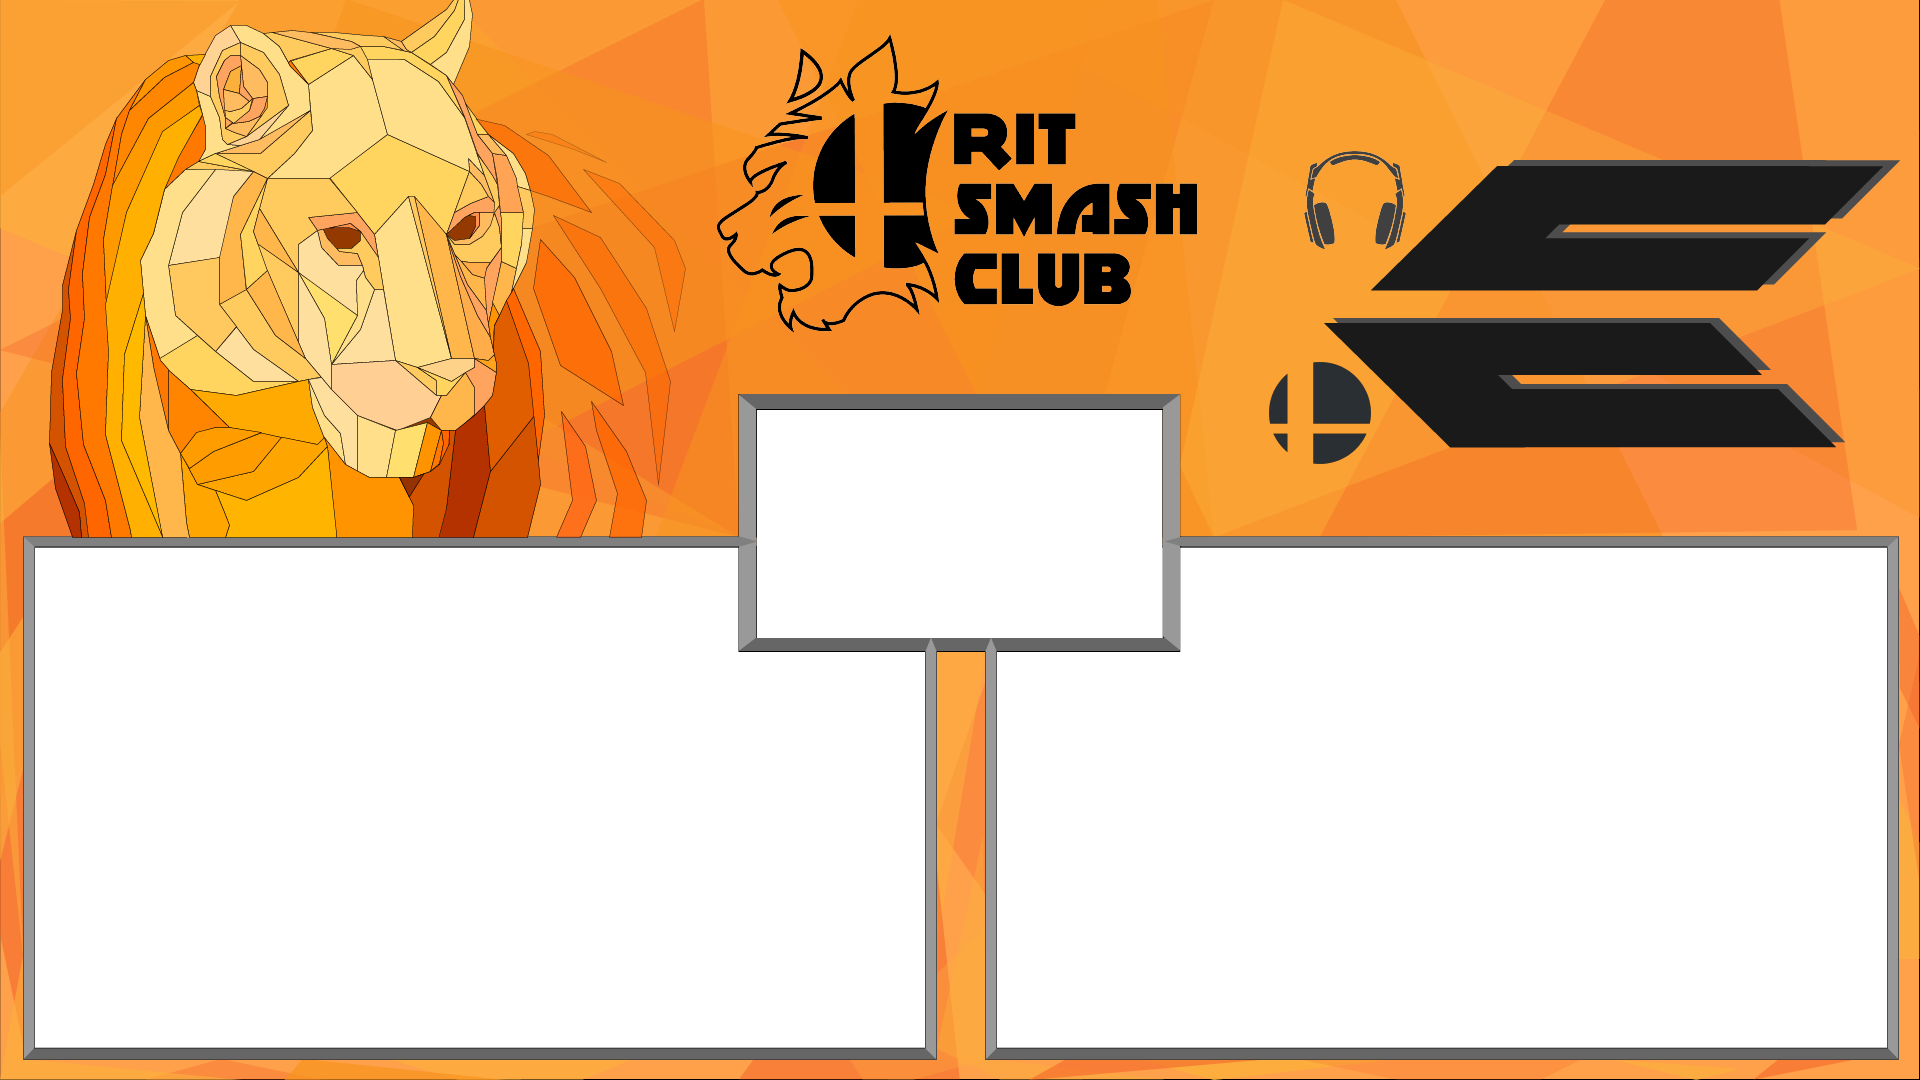
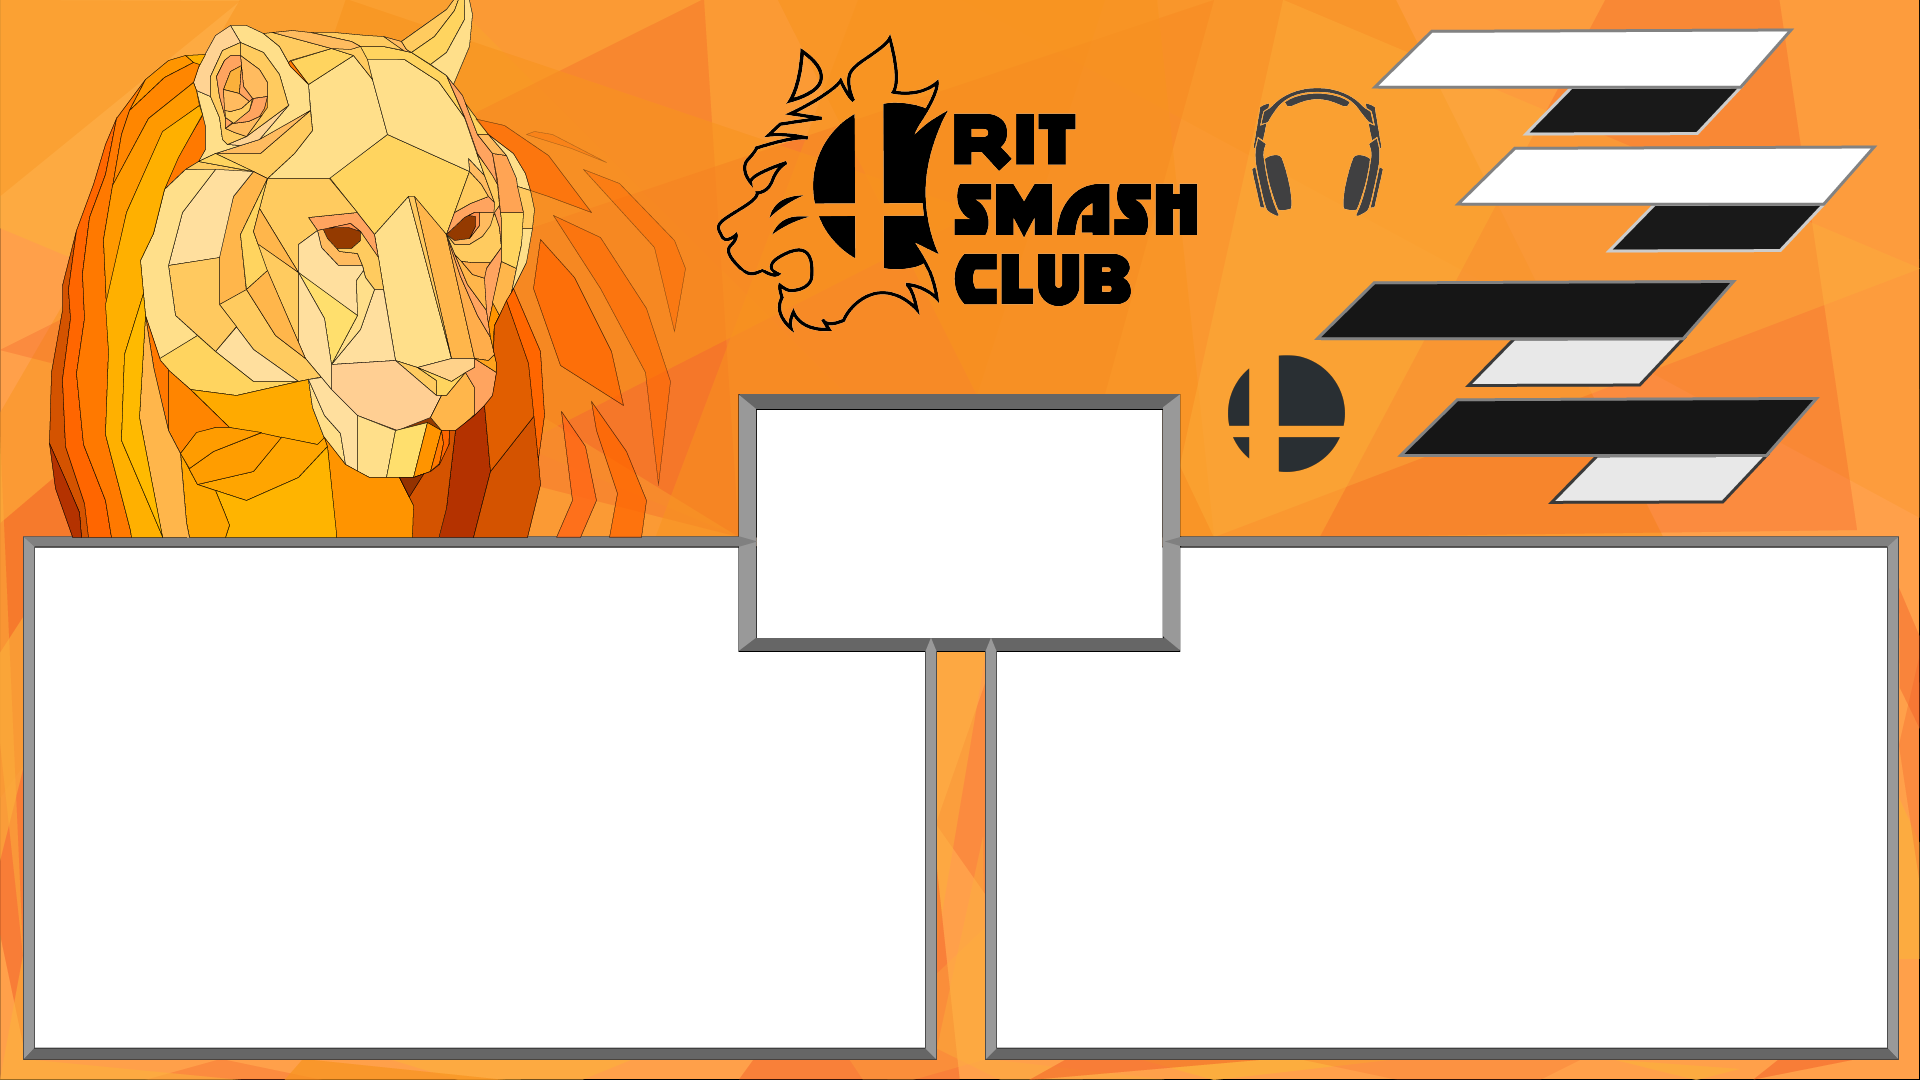
Implemented pronouns

Changed region(s): [[0.625, 0.0, 1.0, 0.4889]]

diff --git a/graphics/css/break.css b/graphics/css/break.css
@@ -28,46 +28,77 @@ body{
 }
 .player1-tag{
 	position: absolute;
-	left: 1375px;
-	top: 330px;
+	left: 1360px;
+	top: 292px;
 	width: 285px;
 }
 .player1-score{
 	position: absolute;
-	left: 1660px;
-	top: 330px;
+	left: 1640px;
+	top: 294px;
 	width: 50px;
 }
-
+.player1-pronouns{
+	position: absolute;
+	color:black;
+	font-size:24px;
+	left: 1505px;
+	top: 345px;
+	width: 140px;
+}
 .player2-tag{
 	position: absolute;
 	left: 1450px;
-	top: 400px;
+	top: 410px;
 	width: 285px;
 }
 .player2-score{
 	position: absolute;
-	left: 1735px;
-	top: 400px;
+	left: 1725px;
+	top: 412px;
 	width: 50px;
+}
+.player2-pronouns{
+	position: absolute;
+	color:black;
+	font-size:24px;
+	left: 1590px;
+	top: 463px;
+	width: 140px;
 }
 .commentators{
 	position: absolute;
 	text-align: center;
-	color: white;
+	color: black;
 	font-size: 36px;
 	height: 35px;
 	line-height: 35px;
 }
 .commentator-1{
 	position: absolute;
+	left: 1420px;
+	top: 42px;
 	width: 320px;
-	top: 175px;
-	left: 1500px;
+}
+.commentator1-pronouns{
+	position: absolute;
+	color:white;
+	font-size:24px;
+	left: 1565px;
+	top: 93px;
+	width: 140px;
 }
 .commentator-2{
 	position: absolute;
+	left: 1500px;
+	top: 160px;
 	width: 320px;
-	top: 245px;
-	left: 1425px;
+}
+.commentator2-pronouns{
+	position: absolute;
+	color:white;
+	font-size:24px;
+	left: 1645px;
+	top: 211px;
+	width: 140px;
 }

diff --git a/graphics/js/set-info.js b/graphics/js/set-info.js
@@ -31,11 +31,15 @@ $(() => {
 		const bundle = 'nodecg-smashcontrol';
 		var bracketlocation = $('.bracket-location');
 		var player1name = $('.player1-tag');
+		var player1pronouns = $('.player1-pronouns');
 		var p1score = $('.player1-score');
 		var player2name = $('.player2-tag');
+		var player2pronouns = $('.player2-pronouns');
 		var p2score = $('.player2-score');
 		var commentary1 = $('.commentator-1');
+		var commentary1pronouns = $('.commentator1-pronouns');
 		var commentary2 = $('.commentator-2');
+		var commentary2pronouns = $('.commentator2-pronouns');
 
 
 		var player1score = nodecg.Replicant("player1Score", bundle);
@@ -56,9 +60,13 @@ $(() => {
 		function updateFields(setData){
 			bracketlocation.text(setData.bracketlocation);
 			player1name.text(setData.player1tag);
+			player1pronouns.text(setData.player1pronouns);
 			player2name.text(setData.player2tag);
+			player2pronouns.text(setData.player2pronouns);
 			commentary1.text(setData.commentator1);
+			commentary1pronouns.text(setData.commentator1pronouns);
 			commentary2.text(setData.commentator2);
+			commentary2pronouns.text(setData.commentator2pronouns);
 			NodeCG.waitForReplicants(player1score, player2score).then(() => {
 				p1score.text(player1score.value);
 				p2score.text(player2score.value);

diff --git a/graphics/css/layout.css b/graphics/css/layout.css
@@ -19,7 +19,7 @@ body{
 }
 .top-bar{
 	position: absolute;
-	top: 2px;
+	top: 5px;
 	height: 35px;
 	line-height: 40px;
 	width: 365px;
@@ -36,15 +36,23 @@ body{
 }
 .player1-tag{
 	position: absolute;
-	bottom: 38px;
+	bottom: 36px;
 	height: 20px;
 	line-height: 20px;
 	width: 150px;
 }
+.player1-pronouns{
+	position: absolute;
+	color:white;
+	font-size:14px;
+	bottom:9px;
+	left:52px;
+	width:150px;
+}
 .player1-score{
 	position: absolute;
 	color: orange;
-	bottom: 30px;
+	bottom: 28px;
 	width: 30px;
 	left: 180px;
 	font-size: 24px;
@@ -58,16 +66,23 @@ body{
 }
 .player2-tag{
 	position: absolute;
-	bottom: 38px;
+	bottom: 36px;
 	height: 20px;
 	line-height: 20px;
 	width: 150px;
-
+}
+.player2-pronouns{
+	position: absolute;
+	color:white;
+	font-size:14px;
+	bottom:9px;
+	left:55px;
+	width:150px;
 }
 .player2-score{
 	position: absolute;
 	color: orange;
-	bottom: 30px;
+	bottom: 28px;
 	width: 30px;
 	left: 180px;
 	font-size: 24px;

diff --git a/graphics/break.html b/graphics/break.html
@@ -18,12 +18,16 @@
 	<div class="wrapper">
 		<div class="commentators">
 			<div class="commentator-1"></div>
+			<div class="commentator1-pronouns"></div>
 			<div class="commentator-2"></div>
+			<div class="commentator2-pronouns"></div>
 		</div>
 		<div class="players">
 			<div class="player1-tag"></div>
+			<div class="player1-pronouns"></div>
 			<div class="player1-score"></div>
 			<div class="player2-tag"></div>
+			<div class="player2-pronouns"></div>
 			<div class="player2-score"></div>
 		</div>
 	</div>

diff --git a/graphics/layout.html b/graphics/layout.html
@@ -23,10 +23,12 @@
 		<div class="player-info">
 			<div class="player1-info">
 				<div class="player1-tag"></div>
+				<div class="player1-pronouns"></div>
 				<div class="player1-score"></div>
 			</div>
 			<div class="player2-info">
 				<div class="player2-tag"></div>
+				<div class="player2-pronouns"></div>
 				<div class="player2-score"></div>
 			</div>
 		</div>
